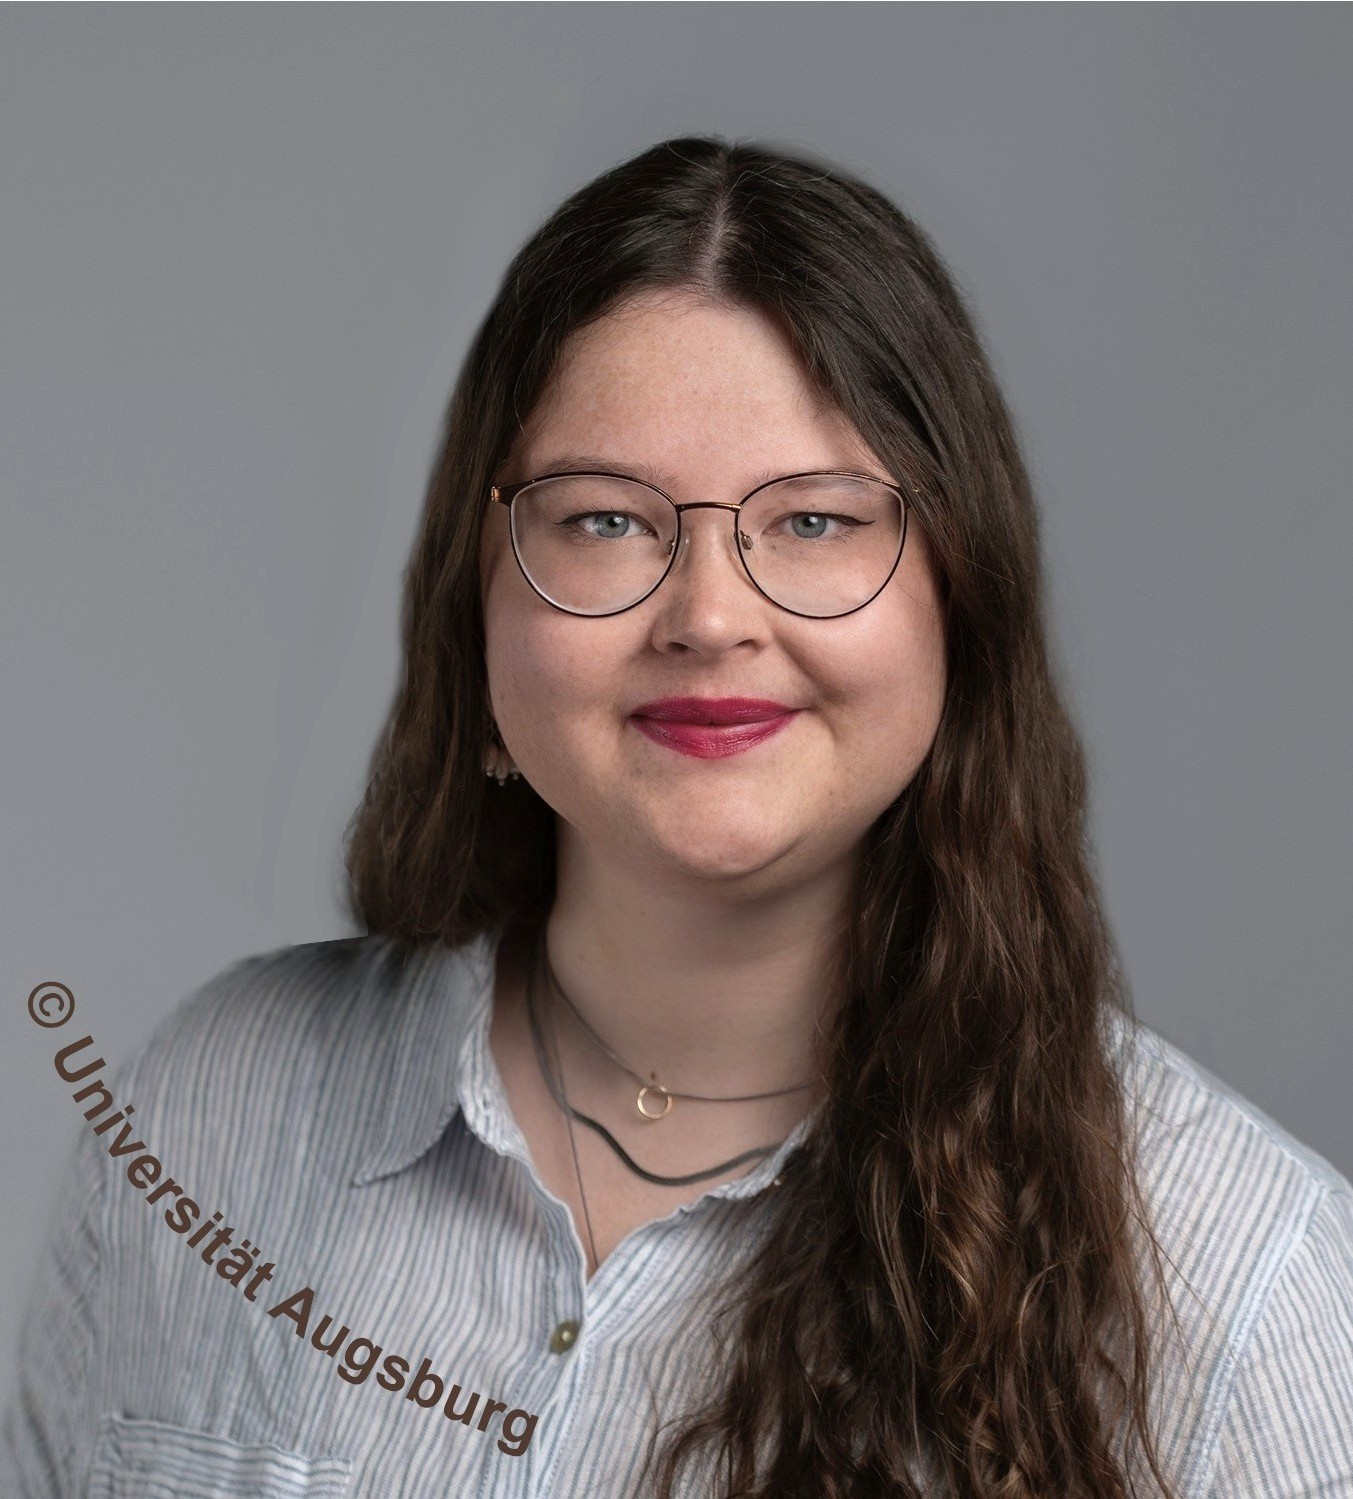
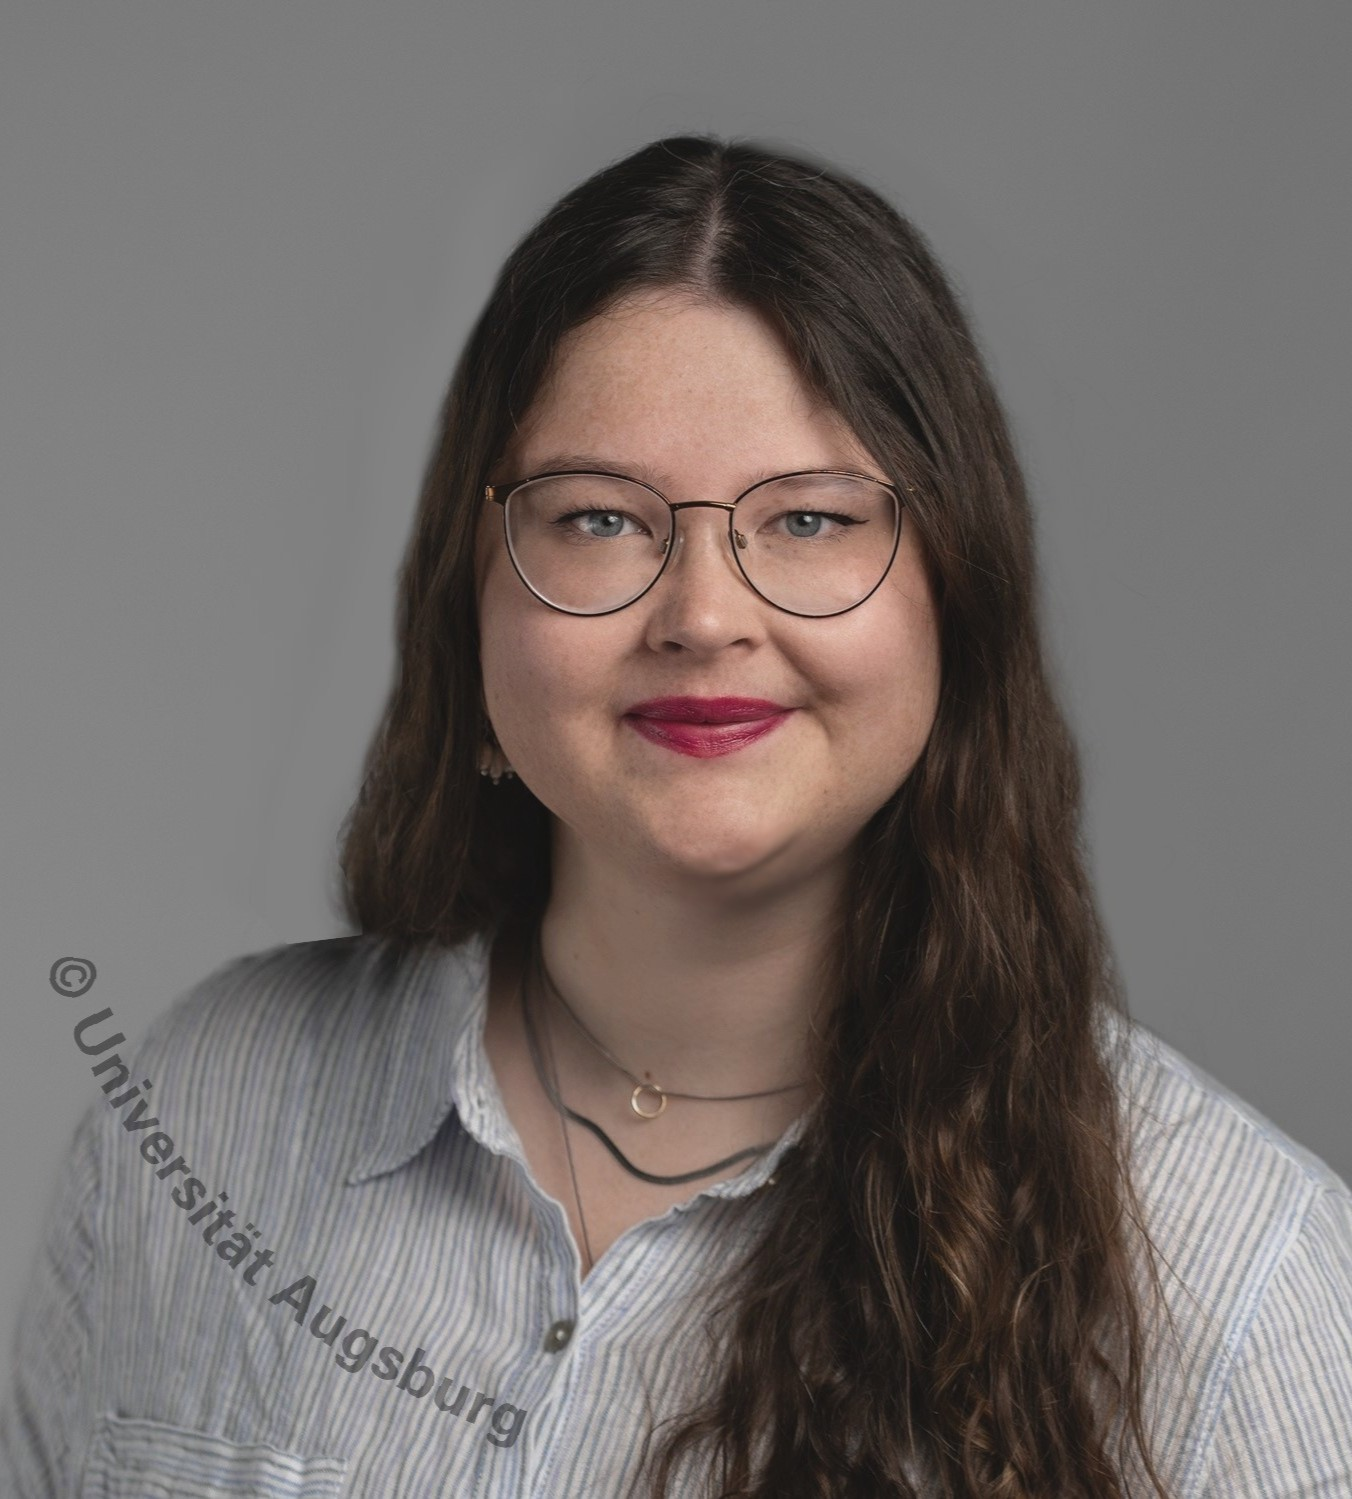
publications updated

diff --git a/publications.html b/publications.html
@@ -36,7 +36,7 @@
           <hr class="rounded">
 
           <h2>Book Chapters</h2>
-          <div class="apa">Brezina, V., & Schmück, H. (2026). Corpus Linguistics and Learner Corpus Research. In H. Nesi & P. Milin (Eds.), International Encyclopedia of Language and Linguistics (3rd ed.). Elsevier. https://doi.org/10.1016/B978-0-323-95504-1.00491-9 [full public access from June 2026].</div>
+          <div class="apa">Brezina, V., & Schmück, H. (2026). Corpus Linguistics and Learner Corpus Research. In H. Nesi & P. Milin (Eds.), International Encyclopedia of Language and Linguistics (3rd ed.). Elsevier. https://doi.org/10.1016/B978-0-323-95504-1.00491-9.</div>
           <hr class="rounded">
           
           <h2>Journal Articles</h2>
@@ -47,16 +47,16 @@
           
           <h2>Conferences & Proceedings</h2>
           
-          <div class="apa">Schmück, H., Urban, V., Krückl, X. M., Zeman, S., Claridge, C., & Friedrich, A. (2026). Cross-Linguistic Situation Entity Segmentation for Discourse Analysis in Diachronic English and German Text. Proceedings of the 20th Linguistic Annotation Workshop (LAW-XX-2026). Association for Computational Linguistics, San Diego, CA, USA. [accepted]</div>
+          <div class="apa">Schmück, H., Urban, V., Krückl, X. M., Zeman, S., Claridge, C., & Friedrich, A. (2026). Cross-Linguistic Situation Entity Segmentation for Discourse Analysis in Diachronic English and German Text. Proceedings of the 20th Linguistic Annotation Workshop (LAW-XX-2026). Association for Computational Linguistics, San Diego, CA, USA. https://doi.org/10.18653/v1/2026.law-main.8 </div>
+          <div class="apa">Claridge,C., Schmück, H., & Friedrich, A. (2026). Characterising Late Modern English Historiographical Writing via Situation Entity Types. The 47th Annual Conference of the International Computer Archive for Modern and Medieval English.</div>
           <div class="apa">Schmück, H., Reder, M., Paula, K., & Friedrich, A. (2025). A Case Study on Annotating and Analysing Situation Entity Types in Reddit Discussions on Democracy. In A. Fabián & I. Trost (Eds.), Impulses and Approaches to Computer-Mediated Communication (pp. 55–59). University of Bayreuth. https://doi.org/10.15495/EPub_UBT_00008705</div>
-        
-          <p style="margin-bottom: 10px; ;"></p><div class="apa">Schmück, H. & Alexander, M. Hidden in Plaintext: Transforming Archival Metadata into Corpora. The International Corpus Linguistics Conference. 2025 </div>
-          <div class="apa">Schmück, H. A tag is worth a thousand words? Evaluating AI image tagging for multimodal corpus construction. The 46th Annual Conference of the International Computer Archive for Modern and Medieval English. 2025</div>
-          <div class="apa">Schmück, H. & Alexander, M. Exploring the past via archival corpora: The People’s Collection of Wales Corpus. The 46th Annual Conference of the International Computer Archive for Modern and Medieval English. 2025 </div>
-          <div class="apa">Schmück, H. Graphing Registers - Exploring Register Differences via Collocational Networks in the BNC2014. The 45rd Annual Conference of the International Computer Archive for Modern and Medieval English. 2024 </div>
-          <div class="apa">Hollands, S. & Schmück, H. Towards a Pipeline Approach to Corpus Compilation: Challenges and Solutions. The 45rd Annual Conference of the International Computer Archive for Modern and Medieval English. 2024 </div>
-          <div class="apa">Schmück, H. Network visualisations of linguistic relationships in large datasets: A case study exploring the context of normal in British English. The 43rd Annual Conference of the International Computer Archive for Modern and Medieval English. 2022 </div>
-          <div class="apa">Schmück, H. Exploring the textual and psychological reality of collocation networks. The International Corpus Linguistics Conference. 2021 </div>
+          <div class="apa">Schmück, H. & Alexander, M. (2025) Hidden in Plaintext: Transforming Archival Metadata into Corpora. The International Corpus Linguistics Conference. </div>
+          <div class="apa">Schmück, H. (2025) A tag is worth a thousand words? Evaluating AI image tagging for multimodal corpus construction. The 46th Annual Conference of the International Computer Archive for Modern and Medieval English. 2025</div>
+          <div class="apa">Schmück, H. & Alexander, M. (2025) Exploring the past via archival corpora: The People’s Collection of Wales Corpus. The 46th Annual Conference of the International Computer Archive for Modern and Medieval English. 2025 </div>
+          <div class="apa">Schmück, H. (2024) Graphing Registers - Exploring Register Differences via Collocational Networks in the BNC2014. The 45rd Annual Conference of the International Computer Archive for Modern and Medieval English. 2024 </div>
+          <div class="apa">Hollands, S. & Schmück, H. (2024) Towards a Pipeline Approach to Corpus Compilation: Challenges and Solutions. The 45rd Annual Conference of the International Computer Archive for Modern and Medieval English. 2024 </div>
+          <div class="apa">Schmück, H. (2022) Network visualisations of linguistic relationships in large datasets: A case study exploring the context of normal in British English. The 43rd Annual Conference of the International Computer Archive for Modern and Medieval English. 2022 </div>
+          <div class="apa">Schmück, H. (2021) Exploring the textual and psychological reality of collocation networks. The International Corpus Linguistics Conference. 2021 </div>
         </p>
           <hr class="rounded">
 

diff --git a/index.html b/index.html
@@ -629,6 +629,7 @@
             <section id="six">
                 <h2>Invited talks/ guest lectures </h2>
                 <ul>
+                    <li>Data Visualisation in Community Heritage Projects - University of Manchester</li>
                     <li>Large Linguistic Networks: A case study on Lone-Wolf Terrorism in the British Press
                       - University of Glasgow</li>
                     <li>Mapping Meaning: Large Linguistic Networks in the Digital Humanities Landscape - DH Forum @
